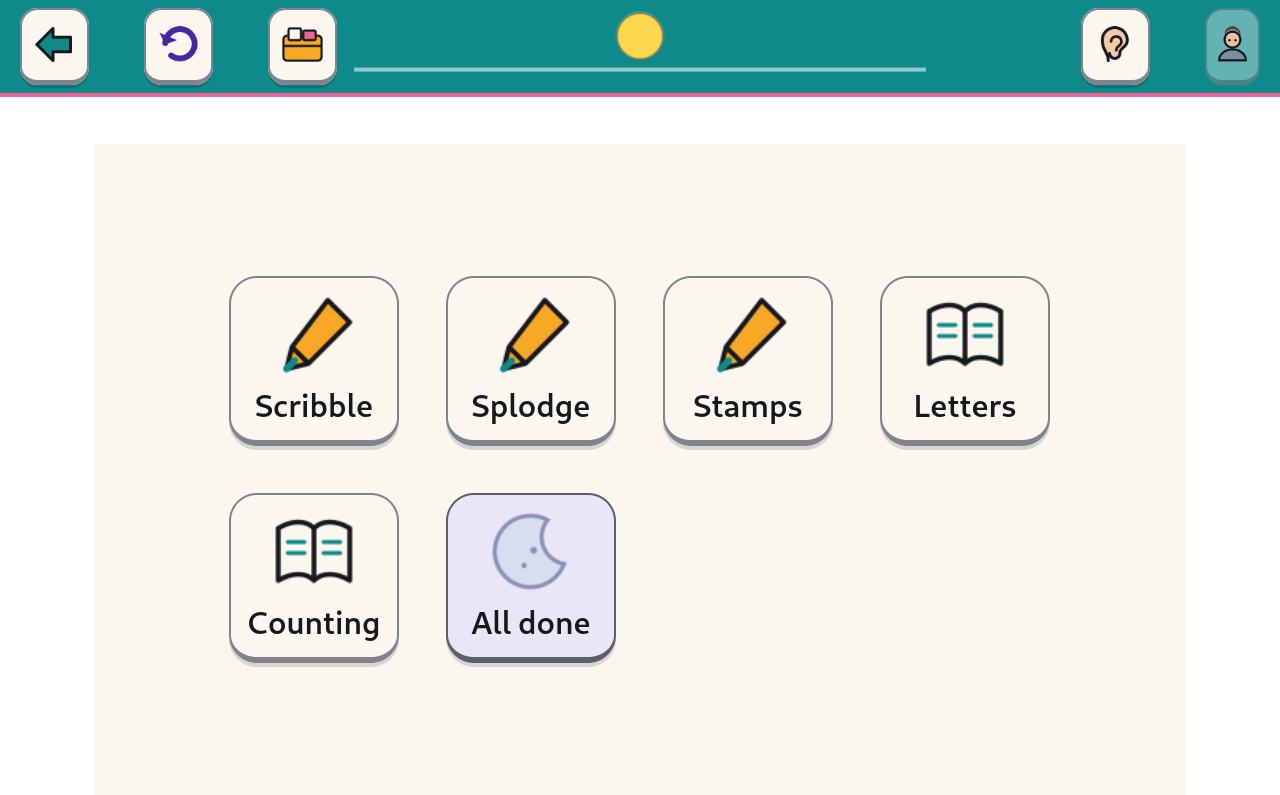
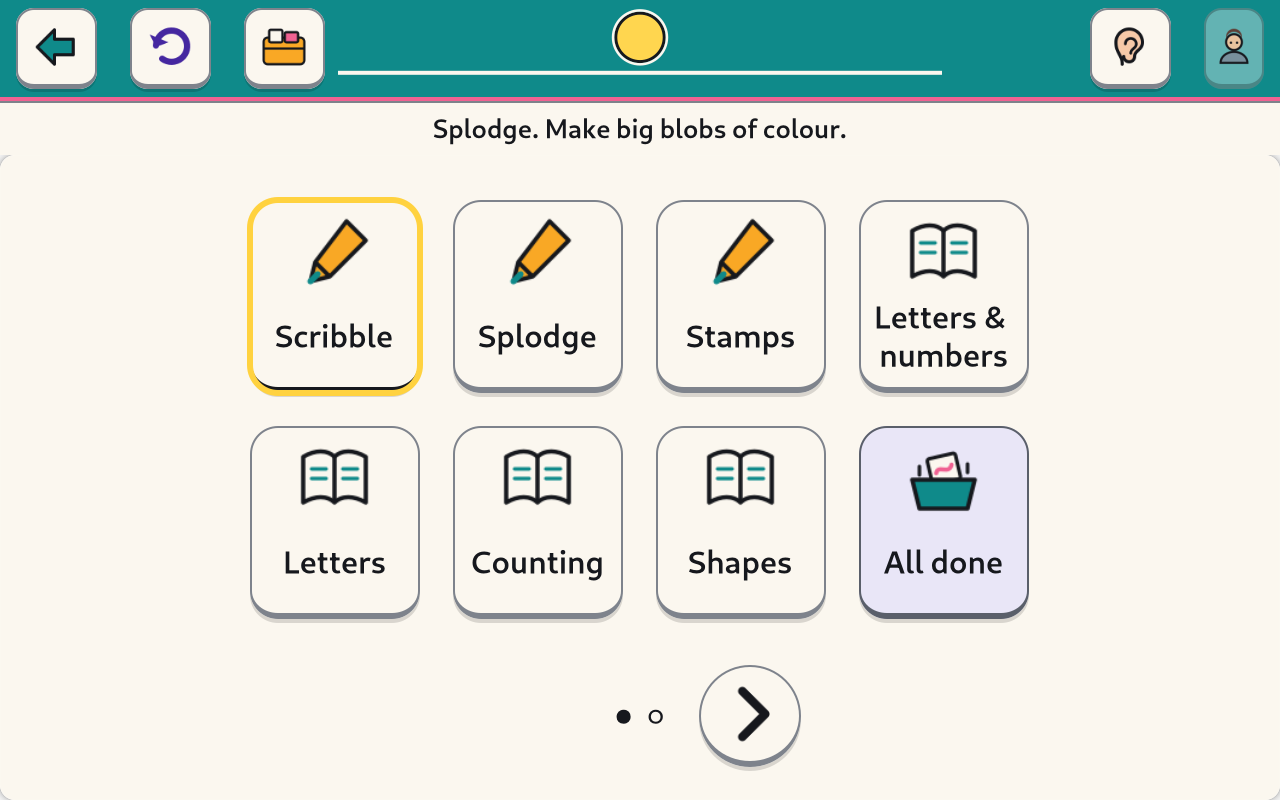
fix: kidnix-config show redacts the PIN (pin_set bool only); All done tile shows the daytime tidy-away box, moon only at bedtime
Claude-Session: https://claude.ai/code/session_01X6UPJhrVCTsGx3mMqxr5Co

diff --git a/parent-panel/kidnix_parent_panel/helper.py b/parent-panel/kidnix_parent_panel/helper.py
@@ -21,11 +21,16 @@ than a method on the panel:
    ``fsync``, ``chmod 0644``, ``os.replace``. A power cut during a save leaves
    either the old file or the new one, never half a PIN and a machine that will
    not let anyone in.
-4. **It never touches the PIN.** The hash and salt are carried across from
-   whatever is on disk *now*, not from the payload, unless the payload's hash
-   is byte-identical to it. Changing a PIN is ``kidnix-set-pin``'s job, which
-   demands the current one and rate-limits guesses; a config writer that could
-   also set a PIN would be a way around both.
+4. **It never touches the PIN, and never repeats it.** The hash and salt are
+   carried across from whatever is on disk *now*, not from the payload, unless
+   the payload's hash is byte-identical to it. Changing a PIN is
+   ``kidnix-set-pin``'s job, which demands the current one and rate-limits
+   guesses; a config writer that could also set a PIN would be a way around
+   both. And ``show`` -- the one verb that needs no password -- prints
+   ``pin_set: true|false`` in their place rather than the two lines
+   themselves, because a four-digit PIN behind PBKDF2 is a 10 000-candidate
+   offline search and handing out the digest walks around the rate limiter.
+   See :func:`redact_pin`.
 
 Exit codes, which :mod:`kidnix_parent_panel.system` reads:
 
@@ -179,6 +184,40 @@ def preserve_pin(payload: dict[str, Any], parent_text: str) -> dict[str, Any]:
     return merged
 
 
+def redact_pin(payload: dict[str, Any]) -> dict[str, Any]:
+    """Strip ``pin_salt``/``pin_hash`` from what ``show`` is about to print.
+
+    ``show`` needs no privilege -- "what is set?" is not a secret, and being
+    able to answer it without a password is why the panel opens instantly. The
+    **PIN hash is not that question.** Four digits behind PBKDF2 is a
+    10 000-candidate offline search: anyone holding the salt and the digest can
+    grind it on another machine in seconds, which walks straight around
+    ``kidnix-set-pin``'s "two seconds a guess, five a minute" limiter, the only
+    thing that makes a four-digit secret defensible at all.
+
+    So the two lines never leave this process. What replaces them is the one
+    bit a caller legitimately needs: ``pin_set``, true or false. That is what
+    the panel would ask for -- it shows "Change PIN" either way and hands the
+    work to ``kidnix-set-pin`` -- and it is what the grown-up gate's
+    "choose a PIN first" state is derived from.
+
+    **This is not the whole fix and does not pretend to be.**
+    ``/etc/kidnix/parent.toml`` is 0644 because the shell runs as the child and
+    must read the hash to check a PIN at the gate, so ``cat`` still gives up
+    the same two lines. Closing that means moving the hash behind a
+    root-only verifier; see ``docs/spikes/pin-flow.md`` §6. What this closes is
+    the *easy* copy: the command a parent is invited to run, whose JSON lands
+    in terminals, screenshots and bug reports.
+    """
+    out = dict(payload)
+    parent = dict(out.get("parent") or {})
+    was_set = bool(str(parent.pop("pin_hash", "") or "").strip())
+    parent.pop("pin_salt", None)
+    parent["pin_set"] = was_set
+    out["parent"] = parent
+    return out
+
+
 def rendered(payload: dict[str, Any], tts_text: str) -> dict[str, str]:
     """``{filename: text}`` for everything this payload would replace.
 
@@ -326,10 +365,11 @@ def main(argv: Sequence[str] | None = None) -> int:
 
     if args.command == "show":
         # Deliberately unprivileged: both files are 0644 and a parent asking
-        # "what is set?" should not be asked for a password to find out.
+        # "what is set?" should not be asked for a password to find out. The
+        # PIN hash is not part of that question -- see redact_pin.
         parent_text, session_text, tts_text = config_io.read_files(etc, usr)
         json.dump(
-            config_io.payload_from_toml(parent_text, session_text, tts_text),
+            redact_pin(config_io.payload_from_toml(parent_text, session_text, tts_text)),
             sys.stdout,
             indent=2,
             sort_keys=True,
@@ -386,6 +426,7 @@ __all__ = [
     "is_admin",
     "main",
     "preserve_pin",
+    "redact_pin",
     "rendered",
     "shell_round_trip",
     "write_atomically",

diff --git a/shell/kidnix_shell/screens/home.py b/shell/kidnix_shell/screens/home.py
@@ -33,16 +33,23 @@ same treatment:
   books in it.
 
 **"All done" has one cell and never leaves it** (spec 7a, SYNTHESIS D5, and the
-panel ruling of 2026-08-23 -- see :data:`ALL_DONE_INDEX`): a moon, one tap, no
+panel ruling of 2026-08-23 -- see :data:`ALL_DONE_INDEX`): one tap, no
 confirmation, and the same ending ritual the clock would have run. A child who
 has had enough must be able to say so, and saying so must not need a grown-up,
 a hold, a sentence they cannot read, or a second look at where the button went.
+
+Its **picture** follows the clock the way its label already did (forum #17,
+:mod:`kidnix_shell.resting`): a tidy-away box during the day, the moon only
+inside the bedtime window. It carried the moon at every hour until 2026-08-23,
+which put a sleep-onset cue on the one control a four-year-old presses at ten
+in the morning -- and did it through the channel a pre-reader actually reads.
 """
 
 from __future__ import annotations
 
 from collections.abc import Sequence
-from dataclasses import dataclass
+from dataclasses import dataclass, replace
+from datetime import datetime
 from functools import partial
 from typing import TypeVar
 
@@ -54,6 +61,7 @@ from gi.repository import Adw, Gtk  # noqa: E402
 
 from ..activities import Activity, in_age_band  # noqa: E402
 from ..i18n import N_, _  # noqa: E402
+from ..resting import DAYTIME_GOODNIGHT_ICON, goodnight_icon  # noqa: E402
 from ..util import paginate  # noqa: E402
 from ..widgets import (  # noqa: E402
     ActivityTile,
@@ -115,7 +123,10 @@ class AllDone:
     #: Msgids. A frozen dataclass default is evaluated at import, so the
     #: translation happens in the two properties below.
     name_msgid: str = N_("All done")
-    icon: str = "kidnix-moon"
+    #: **Daytime by default, because most sessions end in daylight.** The moon
+    #: is swapped in inside the bedtime window and nowhere else -- see
+    #: :meth:`HomeScreen._tile` and :func:`kidnix_shell.resting.goodnight_icon`.
+    icon: str = DAYTIME_GOODNIGHT_ICON
     icon_kind: str = "icon-name"
     category: str = "make"
     speak_msgid: str = N_("All done for today?")
@@ -279,13 +290,41 @@ class HomeScreen(Screen):
             )
         return carousel_page(grid)
 
+    def is_bedtime(self, now: datetime | None = None) -> bool:
+        """Is the night vocabulary true right now?
+
+        The same question Goodbye asks before it labels its own ending button
+        (``screens/goodbye.py``), asked from the same place -- the session
+        policy's ``[bedtime]`` window -- so the tile and the button can never
+        disagree about what time of day it is.
+
+        Answered ``False`` if there is no policy to ask. Daytime is the safe
+        default of the two: a box where a moon belonged is a picture that is
+        merely less apt, while a moon where a box belonged is the sleep-onset
+        cue this whole switch exists to keep off an afternoon screen.
+        """
+        policy = getattr(getattr(self.ctx, "session", None), "policy", None)
+        if policy is None:  # pragma: no cover - every real context has one
+            return False
+        return bool(policy.is_bedtime(now or datetime.now()))
+
+    def all_done_cell(self, now: datetime | None = None) -> AllDone:
+        """:data:`ALL_DONE` with the picture this hour of the day deserves.
+
+        A *copy*, made at render time and thrown away with the tile.
+        :data:`ALL_DONE` itself stays the one object :meth:`cells` pins into
+        the grid, because ``cells[index] is ALL_DONE`` is the invariant that
+        keeps the escape hatch where the child left it.
+        """
+        return replace(ALL_DONE, icon=goodnight_icon(bedtime=self.is_bedtime(now)))
+
     def _tile(
         self, cell: Activity | AllDone, points: float | None = None, label_height: int | None = None
     ) -> Gtk.Widget:
         metrics = self.ctx.metrics
         if isinstance(cell, AllDone):
             return ActivityTile(
-                cell,
+                self.all_done_cell(),
                 metrics,
                 self.ctx.speech_ui,
                 on_activate=self._all_done,

diff --git a/parent-panel/tests/test_helper.py b/parent-panel/tests/test_helper.py
@@ -201,6 +201,67 @@ def test_main_show_needs_no_privilege(tmp_path, capsys):
     assert payload["session"]["length_minutes"] == 30
 
 
+# --- show says whether there is a PIN, and never what it is ---------------
+#
+# `show` is the unprivileged verb. A four-digit PIN behind PBKDF2 is a
+# 10 000-candidate offline search, so printing salt+digest hands the attacker
+# the one thing kidnix-set-pin's rate limiter exists to deny.
+
+
+def test_redact_pin_removes_both_lines_and_says_a_pin_is_set():
+    out = helper.redact_pin({"parent": {"pin_salt": "aa", "pin_hash": "bb", "keep": 1}})
+    assert "pin_salt" not in out["parent"]
+    assert "pin_hash" not in out["parent"]
+    assert out["parent"]["pin_set"] is True
+    assert out["parent"]["keep"] == 1
+
+
+def test_redact_pin_on_a_machine_with_no_pin_says_so():
+    assert helper.redact_pin({"parent": {}})["parent"]["pin_set"] is False
+    assert helper.redact_pin({"parent": {"pin_hash": ""}})["parent"]["pin_set"] is False
+    assert helper.redact_pin({})["parent"]["pin_set"] is False
+
+
+def test_redact_pin_does_not_mutate_what_it_was_given():
+    payload = {"parent": {"pin_hash": "bb"}}
+    helper.redact_pin(payload)
+    assert payload["parent"]["pin_hash"] == "bb"
+
+
+def test_main_show_prints_no_hash_and_no_salt_anywhere(tmp_path, capsys):
+    etc = _mk(tmp_path)
+    helper.do_apply(household().to_payload(), etc, etc, io.StringIO(), frozenset())
+    # A PIN of the shape a real machine has: hex salt, hex PBKDF2 digest.
+    salt, digest = "0f1e2d3c", "b" * 64
+    (etc / "parent.toml").write_text(
+        f'pin_salt = "{salt}"\npin_hash = "{digest}"\n' + (etc / "parent.toml").read_text()
+    )
+    assert helper.main(["show", "--etc", str(etc), "--usr", str(etc)]) == helper.EXIT_OK
+    text = capsys.readouterr().out
+    # The whole text, not just the parent table: no key, no value, nowhere.
+    assert "pin_hash" not in text
+    assert "pin_salt" not in text
+    assert digest not in text
+    assert salt not in text
+    assert json.loads(text)["parent"]["pin_set"] is True
+
+
+def test_show_output_replayed_to_apply_cannot_erase_the_pin(tmp_path, capsys):
+    # The redaction must not become a way to CLEAR a PIN: `show | apply` is a
+    # thing a parent might reasonably do, and preserve_pin is what makes it
+    # safe -- apply reads the hash off disk and never out of a payload.
+    etc = _mk(tmp_path)
+    helper.do_apply(household().to_payload(), etc, etc, io.StringIO(), frozenset())
+    (etc / "parent.toml").write_text(
+        'pin_salt = "s"\npin_hash = "h"\n' + (etc / "parent.toml").read_text()
+    )
+    helper.main(["show", "--etc", str(etc), "--usr", str(etc)])
+    shown = json.loads(capsys.readouterr().out)
+    assert helper.do_apply(shown, etc, etc, io.StringIO(), frozenset()) == helper.EXIT_OK
+    data = tomllib.loads((etc / "parent.toml").read_text())
+    assert (data["pin_salt"], data["pin_hash"]) == ("s", "h")
+
+
 def _mk(tmp_path):
     etc = tmp_path / "etc"
     etc.mkdir(exist_ok=True)

diff --git a/shell/tests/test_gtk_smoke.py b/shell/tests/test_gtk_smoke.py
@@ -317,7 +317,7 @@ def test_home_keeps_all_done_in_one_cell_forever(ctx: ShellContext) -> None:
     It used to be *last in the list*, so it moved one cell along every time
     progressive disclosure revealed a tile -- redrawing the escape hatch on a
     schedule the child cannot perceive (forum #5, #41, #57)."""
-    from kidnix_shell.resting import BEDTIME_GOODNIGHT_ICON, DAYTIME_GOODNIGHT_ICON
+    from kidnix_shell.resting import DAYTIME_GOODNIGHT_ICON
     from kidnix_shell.screens.home import ALL_DONE, AllDone, all_done_index
 
     screen = HomeScreen(ctx)
@@ -340,6 +340,9 @@ def test_the_all_done_tile_wears_the_day_picture_in_the_afternoon(ctx: ShellCont
     from kidnix_shell.resting import BEDTIME_GOODNIGHT_ICON, DAYTIME_GOODNIGHT_ICON
     from kidnix_shell.screens.home import ALL_DONE
 
+    # The demo policy has no bedtime window at all (23:59-00:00); this is the
+    # shipped one, 19:00-07:00.
+    ctx.session.policy = SessionPolicy.from_minutes()
     screen = HomeScreen(ctx)
     afternoon = datetime(2026, 8, 18, 16, 0)
     bedtime = datetime(2026, 8, 18, 21, 0)
